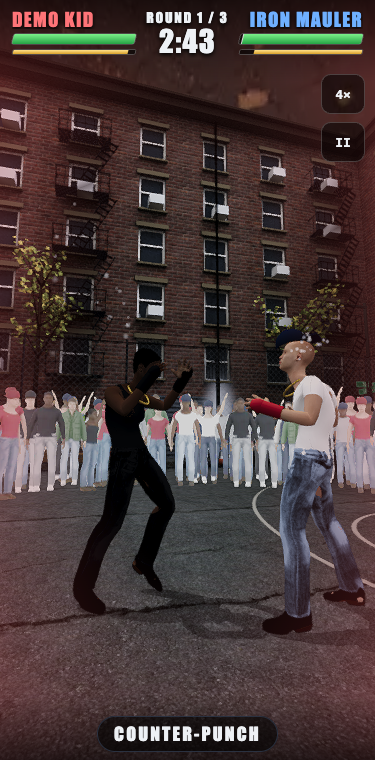
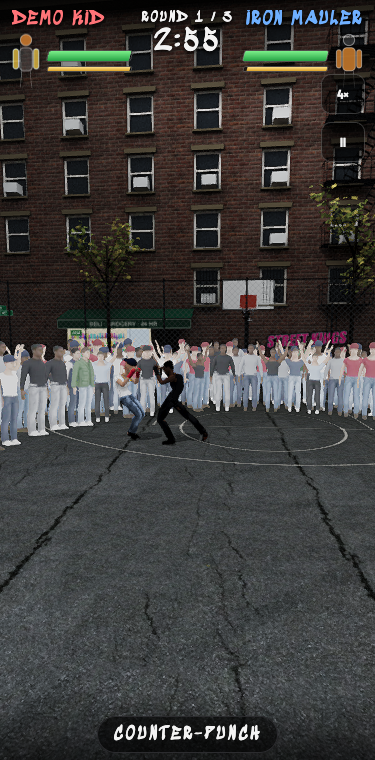
Damage on screen: HUD body silhouette and result damage card

diff --git a/index.html b/index.html
@@ -179,6 +179,23 @@
   .side.blue { text-align: right; }
   .side .nm { font: 400 19px/1 var(--display); letter-spacing: .07em; text-transform: uppercase; text-shadow: 0 2px 4px #000; white-space: nowrap; overflow: hidden; text-overflow: ellipsis; }
   .side.red .nm { color: #ff7478; } .side.blue .nm { color: #6fb0ff; }
+  .vit { display: flex; align-items: center; gap: 7px; }
+  .side.blue .vit { flex-direction: row-reverse; }
+  .vit .bars { flex: 1; min-width: 0; display: grid; gap: 4px; }
+  .sil { display: block; flex: none; width: 28px; height: 56px; overflow: visible; filter: drop-shadow(0 1px 3px #000); }
+  .sil.big { width: 64px; height: 128px; }
+  .sil .base { fill: rgba(255,255,255,.14); stroke: rgba(255,255,255,.55); stroke-width: 1.2; }
+  .sil .leg { fill: none; stroke: rgba(255,255,255,.3); stroke-width: 1; }
+  .sil .zone { fill: rgba(255,255,255,.14); stroke: rgba(255,255,255,.55); stroke-width: 1.2; transition: fill .35s, fill-opacity .35s; transform-box: fill-box; transform-origin: center; }
+  .sil .zone.hit { animation: zonehit .5s ease-out; }
+  @keyframes zonehit { 0% { transform: scale(1.35); filter: brightness(2.2); } 100% { transform: scale(1); filter: none; } }
+  .dmg-grid { display: grid; grid-template-columns: 1fr 1fr; gap: 12px; text-align: center; }
+  .dmg-grid .who { font: 400 15px var(--display); letter-spacing: .1em; text-transform: uppercase; margin-bottom: 6px; }
+  .dmg-fig { display: flex; align-items: center; justify-content: center; gap: 12px; }
+  .dmg-list { display: grid; gap: 5px; text-align: left; font-size: 12.5px; }
+  .dmg-list b { font: 400 17px/1 var(--display); color: var(--accent); margin-right: 4px; }
+  .dmg-list span { display: block; font-size: 10.5px; letter-spacing: .1em; text-transform: uppercase; color: var(--muted); }
+  .dmg-note { margin: 10px 0 0; font-size: 11.5px; color: var(--muted); }
   .meter { position: relative; height: 12px; background: rgba(0,0,0,.6); border: 1px solid rgba(255,255,255,.25); border-radius: 3px; overflow: hidden; transform: skewX(-14deg); }
   .meter.gas { height: 6px; border-radius: 2px; }
   .meter i, .meter b { position: absolute; inset: 0 auto 0 0; width: 100%; }
@@ -452,9 +469,9 @@
   <div id="ring"></div>
   <div class="flash" id="flash"></div>
   <div class="hud" aria-label="Fight status">
-    <div class="side red"><div class="nm" id="red-name">Red</div><div class="meter hp" id="red-hpm"><b id="red-hpg"></b><i id="red-hp"></i></div><div class="meter gas"><i id="red-gas"></i></div></div>
+    <div class="side red"><div class="nm" id="red-name">Red</div><div class="vit"><span id="red-sil"></span><div class="bars"><div class="meter hp" id="red-hpm"><b id="red-hpg"></b><i id="red-hp"></i></div><div class="meter gas"><i id="red-gas"></i></div></div></div></div>
     <div class="mid"><div id="round-lbl">ROUND 1</div><div id="clock">3:00</div></div>
-    <div class="side blue"><div class="nm" id="blue-name">Blue</div><div class="meter hp" id="blue-hpm"><b id="blue-hpg"></b><i id="blue-hp"></i></div><div class="meter gas"><i id="blue-gas"></i></div></div>
+    <div class="side blue"><div class="nm" id="blue-name">Blue</div><div class="vit"><span id="blue-sil"></span><div class="bars"><div class="meter hp" id="blue-hpm"><b id="blue-hpg"></b><i id="blue-hp"></i></div><div class="meter gas"><i id="blue-gas"></i></div></div></div></div>
   </div>
   <div class="hud-btns"><button id="speed-btn" aria-label="Fight speed">4×</button><button id="quit-btn" aria-label="Leave the fight">II</button></div>
   <div class="strip" id="strip"><span class="chip" id="tactic-chip"></span></div>
@@ -511,7 +528,7 @@ import { createArena3D } from './arena-babylon.js';
 import { LOOK_OPTIONS, PHOTO_OUTFITS, normalizeLook } from './boxer-model.js';
 import { createLookPreview } from './look-preview.js';
 import { profileOf, receivedProfile } from './profile.js';
-import { SCREENS, navigate, statCost, REWARDS, outcomeOf, UNLOCKS, unlockFor, isUnlocked, lockedLook, newUnlocks, scorecard, fightStats, cornerTip, TACTIC_BLURB, SPEEDS, normalizeSettings } from './flow.js';
+import { SCREENS, navigate, statCost, REWARDS, outcomeOf, UNLOCKS, unlockFor, isUnlocked, lockedLook, newUnlocks, scorecard, fightStats, emptyDamage, recordDamage, zoneHeat, DAMAGE_ZONES, cornerTip, TACTIC_BLURB, SPEEDS, normalizeSettings } from './flow.js';
 import { ENERGY, TIERS, newCareer, normalizeCareer, effectiveStats, conditionPenalty, ladder, rankOf, tierIndex, offersFor, rest, applyFight, canDrill, DRILLS, markerAt, drillResult, applyDrill, trainerTip } from './career.js';
 import { createSfx } from './sfx.js';
 
@@ -525,6 +542,32 @@ const randomSeed = () => crypto.getRandomValues(new Uint32Array(1))[0];
 const uid = () => Date.now().toString(36) + Math.random().toString(36).slice(2, 6);
 const wait = (ms) => new Promise((r) => setTimeout(r, ms));
 const STAT_LABEL = { speed: 'Speed', power: 'Power', stamina: 'Stamina', ringIQ: 'Ring IQ' };
+const SVGNS = 'http://www.w3.org/2000/svg';
+const svgEl = (tag, attrs = {}, ...kids) => { const n = document.createElementNS(SVGNS, tag); for (const k in attrs) n.setAttribute(k, attrs[k]); n.append(...kids); return n; };
+/** A body silhouette; zones are head, body and guard (the arms, for blocked shots). */
+function silhouette(big = false) {
+  const z = (zone, tag, a) => svgEl(tag, { class: 'zone', 'data-zone': zone, ...a });
+  const svg = svgEl('svg', { viewBox: '0 0 40 80', class: `sil${big ? ' big' : ''}`, 'aria-hidden': 'true' },
+    svgEl('path', { class: 'leg', d: 'M14 54 L12 78 M26 54 L28 78' }),
+    z('guard', 'rect', { x: 2, y: 24, width: 7, height: 26, rx: 3.5 }),
+    z('guard', 'rect', { x: 31, y: 24, width: 7, height: 26, rx: 3.5 }),
+    z('body', 'rect', { x: 11, y: 21, width: 18, height: 33, rx: 6 }),
+    z('head', 'circle', { cx: 20, cy: 10, r: 8 }));
+  return svg;
+}
+/** Tints the silhouette's zones from a damage tally; `pulse` flashes one zone. */
+function paintSilhouette(svg, tally, pulse = null) {
+  for (const n of svg.querySelectorAll('.zone')) {
+    const h = zoneHeat(tally[n.dataset.zone].damage);
+    n.style.fill = h ? `hsl(${Math.round(40 - 40 * h)} 95% ${Math.round(62 - 8 * h)}%)` : '';
+    n.style.fillOpacity = h ? String(0.6 + 0.4 * h) : '';
+    if (pulse && n.dataset.zone === pulse && !matchMedia('(prefers-reduced-motion: reduce)').matches) {
+      n.classList.remove('hit'); void n.getBoundingClientRect(); n.classList.add('hit');
+    }
+  }
+}
+const hudSil = { red: silhouette(), blue: silhouette() };
+$('red-sil').replaceWith(hudSil.red); $('blue-sil').replaceWith(hudSil.blue);
 const DEBUG = new URLSearchParams(location.search).has('debug');
 
 const db = new GameDB();
@@ -875,6 +918,8 @@ function startMatch({ mode, seed, matchId, rounds, red, blue, myCorner, career =
   state.match = { mode, seed, matchId, myCorner, career, fighters: { red: red.stats, blue: blue.stats }, names: { red: red.name, blue: blue.name } };
   state.corners = {};           // corner calls received for the next round (P2P)
   state.result = null;
+  state.damage = emptyDamage();
+  for (const c of ['red', 'blue']) paintSilhouette(hudSil[c], state.damage[c]);
 
   sim.on('exchange', onExchange);
   sim.on('round_end', onRoundEnd);
@@ -997,6 +1042,7 @@ function flash(kind, strength) {
 }
 function onImpact(p) {
   const mine = state.match?.myCorner;
+  if (state.damage) { const z = recordDamage(state.damage, p); if (z) paintSilhouette(hudSil[p.defender], state.damage[p.defender], z); }
   if (p.outcome === 'landed') {
     sfx.hit(p.transferredJoules);
     const big = p.transferredJoules > 140 || (p.target !== 'body' && p.type !== 'jab' && p.transferredJoules > 100);
@@ -1040,7 +1086,7 @@ async function onFightEnd(result) {
   state.hasSaved = true;
   state.result = {
     outcome, method: result.method, ko, names: m.names, myCorner: m.myCorner, mode: m.mode,
-    card: scorecard(sim.rounds), stats: fightStats(sim.rounds), cards: result.cards,
+    card: scorecard(sim.rounds), stats: fightStats(sim.rounds), damage: structuredClone(state.damage), cards: result.cards,
     before, after: { ...state.fighter.record }, gained: REWARDS[outcome], pointsAfter: state.fighter.points, pointsBefore,
     unlocked: newUnlocks(before.w, state.fighter.record.w), career: careerResult,
   };
@@ -1083,6 +1129,7 @@ function renderResult() {
       ...pair('landed', `${s[mine].landed}/${s[mine].thrown}`, `${s[theirs].landed}/${s[theirs].thrown}`),
       ...pair('accuracy', `${acc(mine)}%`, `${acc(theirs)}%`),
       ...pair('power', `${s[mine].joules.toFixed(0)} J`, `${s[theirs].joules.toFixed(0)} J`))),
+    damageCard(r),
     el('div', { className: 'card reward' },
       el('div', {}, el('b', { textContent: `+${r.gained}` }), el('span', { textContent: 'XP · training points' })),
       el('div', {}, el('b', { textContent: `${rec('w')}-${rec('l')}-${rec('d')}` }), el('span', { textContent: `record (${recChanged === 'w' ? 'win' : recChanged === 'l' ? 'loss' : 'draw'} added)` })),
@@ -1097,6 +1144,24 @@ function renderResult() {
       el('button', { className: 'big ghost', textContent: 'Title', onclick: () => { sfx.click(); go('title'); } })));
   body.scrollTop = 0;
   setTimeout(() => { if (state.screen === 'result') (r.outcome === 'w' ? sfx.win() : r.outcome === 'l' ? sfx.lose() : sfx.click()); }, verdictAt * 1000);
+}
+
+const ZONE_LABEL = { head: 'Head', body: 'Body', guard: 'Blocked (arms)' };
+function damageCard(r) {
+  const mine = r.myCorner, theirs = mine === 'red' ? 'blue' : 'red';
+  const col = (c) => {
+    const fig = silhouette(true);
+    paintSilhouette(fig, r.damage[c]);
+    return el('div', {}, el('div', { className: 'who', textContent: `${r.names[c]} took` }),
+      el('div', { className: 'dmg-fig' }, fig,
+        el('div', { className: 'dmg-list' }, ...DAMAGE_ZONES.map((z) => {
+          const d = r.damage[c][z];
+          return el('div', {}, el('b', { textContent: d.damage.toFixed(1) }), el('span', { textContent: `${ZONE_LABEL[z]} · ${d.hits} ${d.hits === 1 ? 'shot' : 'shots'}` }));
+        }))));
+  };
+  return el('div', { className: 'card' }, el('h3', { textContent: 'Damage taken' }),
+    el('div', { className: 'dmg-grid' }, col(mine), col(theirs)),
+    el('p', { className: 'dmg-note', textContent: 'Health points lost by where the punch hit. The sim records head or body for landed shots; blocked shots are counted on the arms.' }));
 }
 
 // ─── Career ─────────────────────────────────────────────────────────────────

diff --git a/flow.js b/flow.js
@@ -75,6 +75,26 @@ export function fightStats(rounds) {
   return out;
 }
 
+/** Body zones for the damage silhouette. The sim records only a punch's target (head/body) and outcome, so a blocked shot is the guard zone. */
+export const DAMAGE_ZONES = ['head', 'body', 'guard'];
+export const zoneOf = (p) => (p.outcome === 'landed' ? (p.target === 'body' ? 'body' : 'head') : p.outcome === 'blocked' ? 'guard' : null);
+
+const zoneZero = () => ({ head: { damage: 0, hits: 0 }, body: { damage: 0, hits: 0 }, guard: { damage: 0, hits: 0 } });
+export const emptyDamage = () => ({ red: zoneZero(), blue: zoneZero() });
+
+/** Adds one impact record to the damage tally of the corner that took it. Returns the zone it hit, or null for a slip. */
+export function recordDamage(dmg, p) {
+  const z = zoneOf(p);
+  if (!z) return null;
+  const slot = dmg[p.defender][z];
+  slot.damage += p.damage;
+  slot.hits += 1;
+  return z;
+}
+
+/** 0..1 intensity for tinting a zone; any damage shows, 20 health points is full. */
+export const zoneHeat = (damage) => (damage > 0 ? Math.min(1, 0.25 + damage / 20) : 0);
+
 /**
  * One line from the corner and the tactic it points to. `me`/`opp` are { health, gasRatio, stats }.
  * `precedent` is the best past winner from the fight log, if any ({ tactic, label }).

diff --git a/HANDOFF.md b/HANDOFF.md
@@ -330,3 +330,7 @@ Run it with `npm run static -- 4792` (or `preview_start boxing-static`), then op
 
 ## Done (2026-10-04): UI style pass, graffiti type and monochrome (BOX-13, Boxing UI Dev)
 User style direction applied to the whole UI. Sedgwick Ave Display (graffiti: logo, titles, buttons) plus Barlow Condensed (body, numbers) are self-hosted in `public/boxing/fonts/` (OFL, licences in `fonts/CREDITS.md`), no Google request at runtime. Palette in `:root` of `index.html` is now black surfaces, white/soft-grey text and one muted ember accent (`--accent #c2512f`); primary buttons are white on black; the title scene is desaturated; logo has an ember tag underline and a slow drip (off under `prefers-reduced-motion`). Fight-canvas content (3D arena, Phaser) is unchanged. Untested: real phone/Safari font rendering; screens other than title and career intro were not eyeballed after the recolour (hurt flash, result, gym, card), only the token swap.
+
+## Done (2026-10-04): damage on screen, BOX-9 first slice (Boxing UI Dev)
+The sim records only `target` ('head'/'body') and `outcome` per punch (the `ZONE` in `physics-engine.js` is the ropes zone), so no sim change: zones are derived from those. Landed head shots -> head, landed body shots -> body, blocked shots -> arms ("Blocked"); slips hit nothing. `flow.js`: `zoneOf`, `emptyDamage`, `recordDamage`, `zoneHeat` (pure, tested). `index.html`: `silhouette()` / `paintSilhouette()`; each fighter's HUD has a small figure beside the bars whose zones tint amber to red and pulse on each hit (listens to `impact`, never writes the sim); the result screen has a "Damage taken" card with a big figure and health points and shots per zone for both fighters. Tally is reset per fight and stored in `state.result.damage`. `npm test` 271 pass; `demo-e2e.mjs` clean (new `qa/game-7b-fight-damage-*.png`, `game-8-result-*.png`).
+- Not built yet from BOX-9: between-rounds stats screen, per-round breakdown, punches by type, AI corner timeline. **Untested**: night HUD by eye, real phone, reduced-motion.
